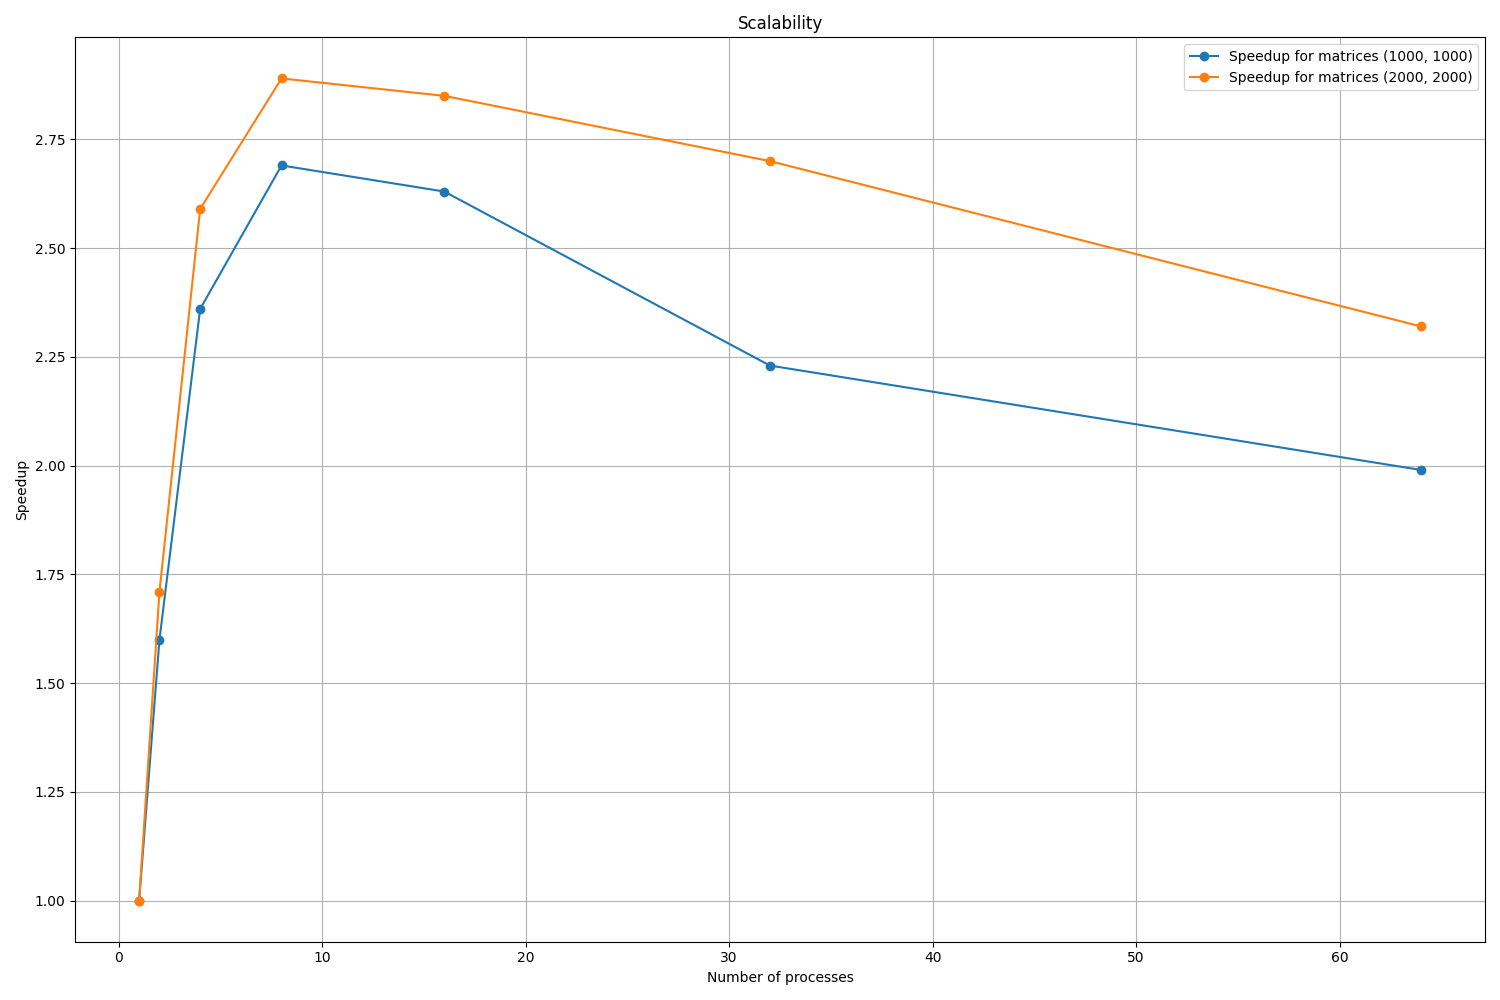
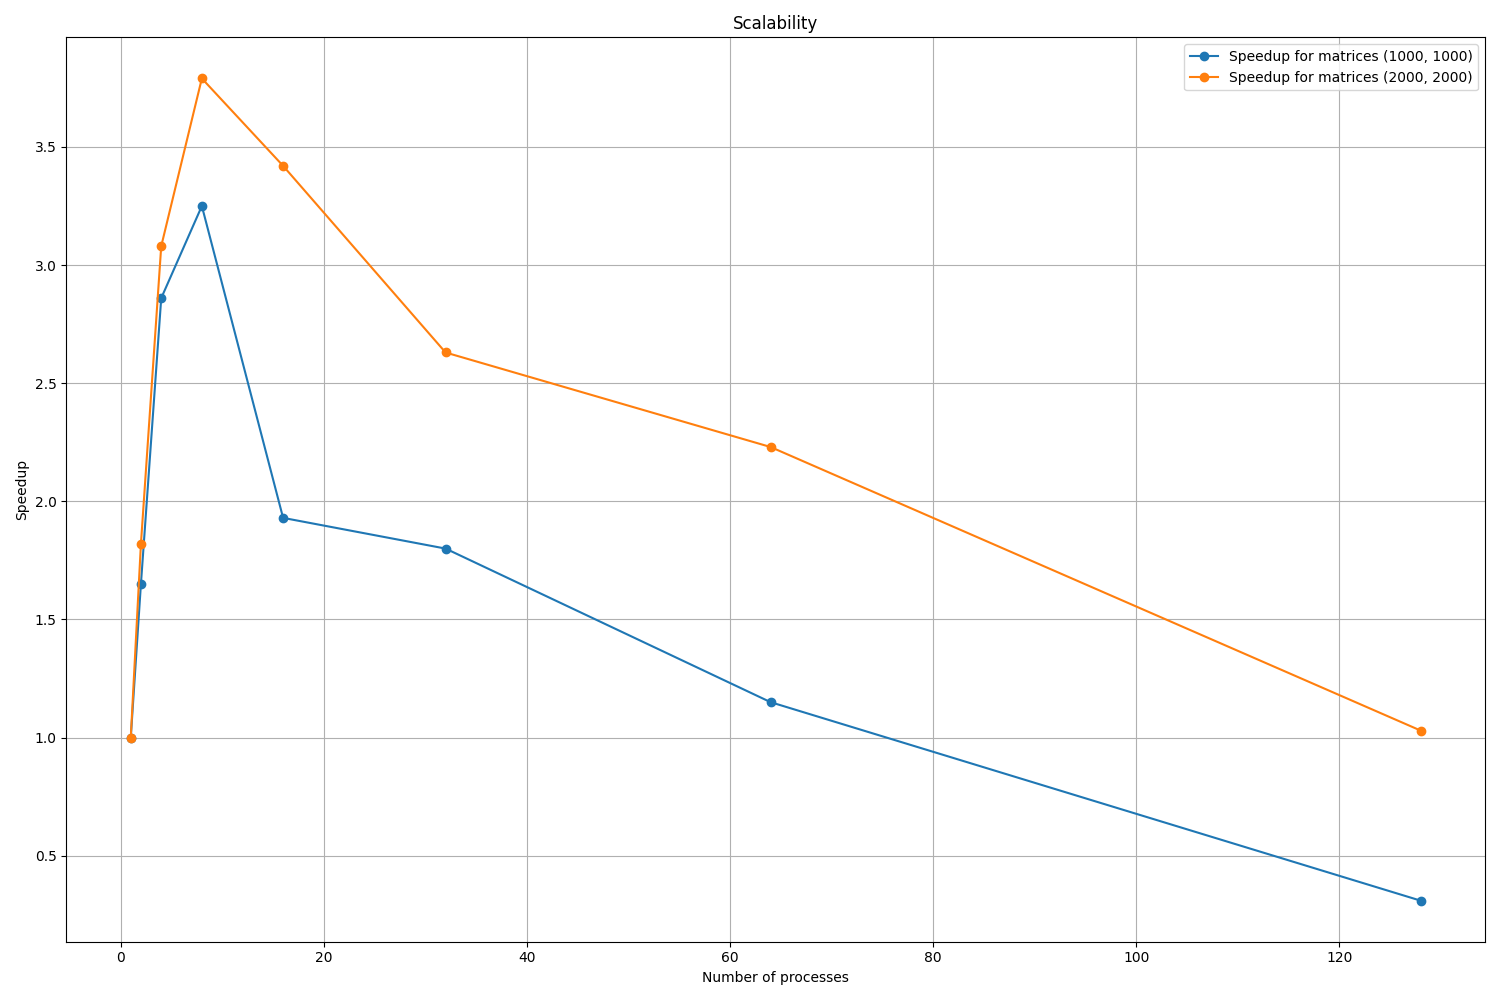
Added results from test bench

diff --git a/MPI/experiment.py b/MPI/experiment.py
@@ -5,9 +5,7 @@ import matplotlib.pyplot as plt
 
 def run_matrix_computation(processes, dimension):
     sp = subprocess.run(
-        # Only for Windows, for Linux need to change command
-        ['g++', '-I', 'C:\\Program Files (x86)\\Microsoft SDKs\\MPI\\Lib\\x64', '-I', 'C:\\Program Files (x86)\\Microsoft SDKs\\MPI\\Include\\x64', '-I',
-         'C:\\Program Files (x86)\\Microsoft SDKs\\MPI\\Include', '-L', '.', '-lmsmpi', '-g', 'matrix_computation.cpp', '-o', 'matrix_computation.exe'],
+        ['mpic++', '-std=c++17', '-o', 'matrix_computation', 'matrix_computation.cpp'],
         stdout=subprocess.PIPE,
         stderr=subprocess.PIPE,
         text=True
@@ -16,8 +14,7 @@ def run_matrix_computation(processes, dimension):
         raise ChildProcessError('Matrix computation compilation error')
 
     sp = subprocess.run(
-        ['mpiexec', '-n', str(processes),
-         './matrix_computation', str(dimension)],
+        ['mpiexec', '-n', str(processes), './matrix_computation', str(dimension)],
         stdout=subprocess.PIPE,
         stderr=subprocess.PIPE,
         text=True

diff --git a/MPI/README.md b/MPI/README.md
@@ -18,25 +18,25 @@ $A = Tr(B^3 C) E + I + B \\&\\& M$, где
 
 ```
 System:
-  Distro: Windows 10 Pro 22H2
+  Distro: Ubuntu 22.04.4 LTS (Jammy Jellyfish)
+  Kernel: 5.15.0-122-generic x86_64
   Bits: 64
-  Compiler: GCC 14.1.0
-  MPI: MSMPI 8.0.1
-  Interpreter: Python 3.13.0rc2
+  Compiler: GCC 11.4.0
+  Interpreter: Python 3.10.12
 ```
 
 ```
 CPU:
-  Model: Intel Core i7-11370H
-  Architecture: Tiger Lake H35
-  Cores: 4-core
+  Model: Intel Xeon E-2136
+  Architecture: Coffee Lake
+  Cores: 6-core
   Bits: 64
   Speed (MHz):
     Min: 800
-    Max: 4800
+    Max: 4500
   Cache:
-    L1: 80 KiB
-    L2: 1.25 MB MiB
+    L1: 384 KiB
+    L2: 1.5 MiB
     L3: 12 MiB
   Flags: 
     avx avx2 ht lm nx pae
@@ -46,7 +46,7 @@ CPU:
 
 ```
 RAM:
-  Total: 15.8 GiB
+  Total: 62.67 GiB
 ```
 
 ## Команды
@@ -54,17 +54,17 @@ RAM:
 Компиляция и запуск вычисления матричного выражения с указанным числом процессов и размерностью матриц. Результатом являются данные о времени матричного вычисления для указанных аргументов в формате CSV.
 
 ```
-g++ -I [path to /MPI/Lib/x64] -I [path to /MPI/Include/x64] -I [path to /MPI/Include] -L . -lmsmpi -g matrix_computation.cpp -o matrix_computation.exe
+mpic++ -std=c++17 -o matrix_computation matrix_computation.cpp 
 mpiexec -n [processes] ./matrix_computation [dimension]
 ```
 
 Запуск эксперимента, выполняющего компиляцию, вычисление матричного выражения, ускорения и эффективности, а также построение графиков времени, ускорения и эффективности по результатам вычисления в формате CSV.
 
 ```
-python -m venv venv
-./venv/Scripts/activate
+python3 -m venv venv
+./venv/bin/activate
 pip install -r ./requirements.txt
-python ./experiment.py
+python3 ./experiment.py
 ```
 
 ## Решение
@@ -132,17 +132,18 @@ python ./experiment.py
 
 ### Размерность матриц $1000$
 
-Таблица $1$ времени матричных вычислений для разного числа процессов. В таблице содержится время каждого из пяти запусков и среднее время для каждого числа процессов. Данные для $128$ процессов отсутствуют в таблице, поскольку системе Windows не удалось создать столько процессов для указанной программно-аппаратной конфигурации.
+Таблица $1$ времени матричных вычислений для разного числа процессов. В таблице содержится время каждого из пяти запусков и среднее время для каждого числа процессов.
 
-| Процессы | 1 | 2 | 3 | 4 | 5 | Среднее (сек.) |
-| --- | --- | --- | --- | --- | --- | --- |
-| 1 | 18.07 | 17.5 | 17.66 | 17.74 | 17.76 | 17.75 |
-| 2 | 11 | 11.22 | 11.22 | 11.01 | 11.14 | 11.12 |
-| 4 | 7.5 | 7.57 | 7.42 | 7.55 | 7.5 | 7.51 |
-| 8 | 6.69 | 6.55 | 6.52 | 6.64 | 6.6 | 6.6 |
-| 16 | 6.8 | 6.69 | 6.71 | 6.83 | 6.7 | 6.75 |
-| 32 | 8.4 | 7.97 | 8.05 | 7.67 | 7.71 | 7.96 |
-| 64 | 8.82 | 9.01 | 9.11 | 8.97 | 8.77 | 8.94 |
+| Процессы | 1     | 2     | 3     | 4     | 5     | Среднее (сек.) |
+|----------|-------|-------|-------|-------|-------|----------------|
+| 1        | 22.73 | 22.72 | 22.71 | 22.77 | 22.73 | 22.73          |
+| 2        | 13.58 | 13.82 | 13.88 | 13.89 | 13.88 | 13.81          |
+| 4        | 7.90  | 7.95  | 7.96  | 7.95  | 7.97  | 7.95           |
+| 8        | 6.98  | 7.00  | 6.99  | 6.99  | 7.00  | 6.99           |
+| 16       | 11.87 | 11.81 | 11.95 | 11.96 | 11.41 | 11.80          |
+| 32       | 12.68 | 12.41 | 12.60 | 12.45 | 12.94 | 12.62          |
+| 64       | 19.98 | 19.60 | 19.36 | 19.58 | 20.41 | 19.79          |
+| 128      | 74.95 | 75.13 | 74.78 | 74.03 | 71.86 | 74.15          |
 
 По табличным данным был построен график $1$: зависимости времени от числа процессов.
 
@@ -151,14 +152,15 @@ python ./experiment.py
 Таблица $2$ коэффициентов ускорения и эффективности для разного числа процессов в сравнении с предельными значениями из законов Амдала.
 
 | Процессы | Ускорение Амдала | Ускорение | Эффективность Амдала | Эффективность |
-| --- | --- | --- | --- | --- |
-| 1 | 1 | 1 | 1 | 1 |
-| 2 | 1.82 | 1.6 | 0.91 | 0.8 |
-| 4 | 3.08 | 2.36 | 0.77 | 0.59 |
-| 8 | 4.71 | 2.69 | 0.59 | 0.34 |
-| 16 | 6.4 | 2.63 | 0.4 | 0.16 |
-| 32 | 7.8 | 2.23 | 0.24 | 0.07 |
-| 64 | 8.77 | 1.99 | 0.14 | 0.03 |
+|----------|------------------|-----------|----------------------|---------------|
+| 1.0      | 1.0              | 1.0       | 1.0                  | 1.0           |
+| 2.0      | 1.82             | 1.65      | 0.91                 | 0.82          |
+| 4.0      | 3.08             | 2.86      | 0.77                 | 0.71          |
+| 8.0      | 4.71             | 3.25      | 0.59                 | 0.41          |
+| 16.0     | 6.4              | 1.93      | 0.4                  | 0.12          |
+| 32.0     | 7.8              | 1.8       | 0.24                 | 0.06          |
+| 64.0     | 8.77             | 1.15      | 0.14                 | 0.02          |
+| 128.0    | 9.34             | 0.31      | 0.07                 | 0.0           |
 
 По табличным данным был построен график $2$: зависимости ускорения от числа процессов.
 
@@ -170,17 +172,18 @@ python ./experiment.py
 
 ### Размерность матриц $2000$
 
-Таблица $3$ времени матричных вычислений для разного числа процессов. В таблице содержится время каждого из пяти запусков и среднее время для каждого числа процессов. Данные для $128$ процессов отсутствуют в таблице, поскольку системе Windows не удалось создать столько процессов для указанной программно-аппаратной конфигурации.
+Таблица $3$ времени матричных вычислений для разного числа процессов. В таблице содержится время каждого из пяти запусков и среднее время для каждого числа процессов.
 
-| Процессы | 1 | 2 | 3 | 4 | 5 | Среднее (сек.) |
-| --- | --- | --- | --- | --- | --- | --- |
-| 1 | 162.03 | 160.07 | 159.64 | 160.2 | 159.39 | 160.27 |
-| 2 | 95.21 | 94.54 | 94.74 | 92.83 | 91.9 | 93.84 |
-| 4 | 61.95 | 61.91 | 61.91 | 62.24 | 61.86 | 61.98 |
-| 8 | 55.32 | 55.41 | 55.39 | 55.47 | 55.66 | 55.45 |
-| 16 | 56.47 | 56.16 | 56.22 | 55.96 | 56.15 | 56.19 |
-| 32 | 62.24 | 59.04 | 58.4 | 58.36 | 59.08 | 59.42 |
-| 64 | 77.33 | 67.52 | 67.38 | 67.43 | 66.3 | 69.19 |
+| Процессы | 1      | 2      | 3      | 4      | 5      | Среднее (сек.) |
+|----------|--------|--------|--------|--------|--------|----------------|
+| 1        | 272.06 | 271.81 | 271.68 | 271.75 | 271.87 | 271.83         |
+| 2        | 138.93 | 138.87 | 138.96 | 138.99 | 138.97 | 138.95         |
+| 4        | 69.91  | 69.94  | 69.97  | 69.95  | 69.92  | 69.94          |
+| 8        | 71.72  | 71.70  | 71.70  | 71.67  | 71.71  | 71.70          |
+| 16       | 73.59  | 80.80  | 80.79  | 81.05  | 81.18  | 79.48          |
+| 32       | 107.61 | 108.21 | 108.38 | 104.52 | 88.29  | 103.40         |
+| 64       | 121.97 | 121.59 | 121.48 | 121.56 | 122.14 | 121.75         |
+| 128      | 264.23 | 265.25 | 263.60 | 263.51 | 266.32 | 264.58         |
 
 По табличным данным был построен график $4$: зависимости времени от числа процессов.
 
@@ -189,14 +192,15 @@ python ./experiment.py
 Таблица $4$ коэффициентов ускорения и эффективности для разного числа процессов в сравнении с предельными значениями из законов Амдала.
 
 | Процессы | Ускорение Амдала | Ускорение | Эффективность Амдала | Эффективность |
-| --- | --- | --- | --- | --- |
-| 1 | 1 | 1 | 1 | 1 |
-| 2 | 1.82 | 1.71 | 0.91 | 0.85 |
-| 4 | 3.08 | 2.59 | 0.77 | 0.65 |
-| 8 | 4.71 | 2.89 | 0.59 | 0.36 |
-| 16 | 6.4 | 2.85 | 0.4 | 0.18 |
-| 32 | 7.8 | 2.7 | 0.24 | 0.08 |
-| 64 | 8.77 | 2.32 | 0.14 | 0.04 |
+|----------|------------------|-----------|----------------------|---------------|
+| 1.0      | 1.0              | 1.0       | 1.0                  | 1.0           |
+| 2.0      | 1.82             | 1.82      | 0.91                 | 0.91          |
+| 4.0      | 3.08             | 3.08      | 0.77                 | 0.77          |
+| 8.0      | 4.71             | 3.79      | 0.59                 | 0.47          |
+| 16.0     | 6.4              | 3.42      | 0.4                  | 0.21          |
+| 32.0     | 7.8              | 2.63      | 0.24                 | 0.08          |
+| 64.0     | 8.77             | 2.23      | 0.14                 | 0.03          |
+| 128.0    | 9.34             | 1.03      | 0.07                 | 0.01          |
 
 По табличным данным был построен график $5$: зависимости ускорения от числа процессов.
 
